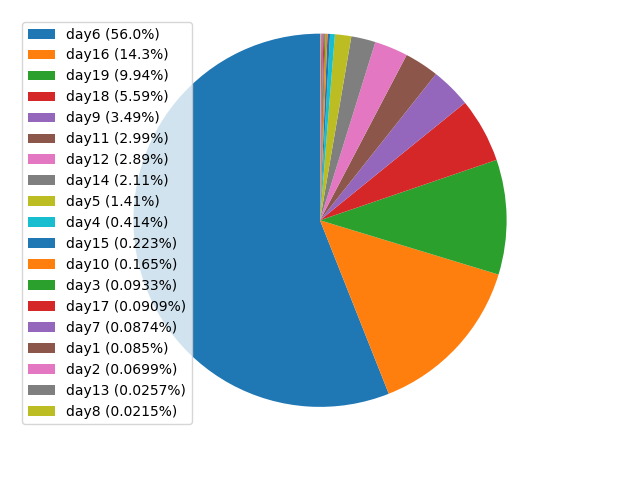
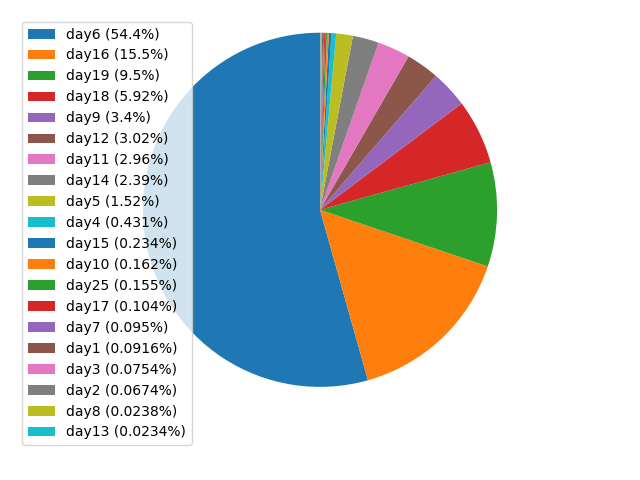
day 25 part 1

diff --git a/aoc/days/day25.py b/aoc/days/day25.py
@@ -1,0 +1,66 @@
+from pathlib import Path
+from itertools import groupby
+from aoc.util import read, file, bench, env
+
+CURR_DAY: int = 25
+INPUT_FILE_PATH: Path = file.input_path(CURR_DAY)
+TEST_FILE_PATH: Path = file.test_path(CURR_DAY)
+ONLY_TESTS: bool = env.is_set("TEST")
+
+
+def task2(input: list[str]):
+    # not enough stars :(
+    pass
+
+
+def pin_height(scheme: list[str]) -> list[int]:
+    heights: list[int] = [-1] * len(scheme[0])
+    for s in scheme:
+        for i in range(len(scheme[0])):
+            heights[i] += s[i] == "#"
+    return heights
+
+
+def fits(key: list[int], lock: list[int]) -> bool:
+    for i, k in enumerate(key):
+        if k + lock[i] >= 6:
+            return False
+    return True
+
+
+def task1(input: list[str]) -> int:
+    # split list at empty strings
+    schematics: list[list[str]] = [
+        list(sub) for ele, sub in groupby(input, key=bool) if ele
+    ]
+
+    lock_scheme: list[list[str]] = []
+    key_scheme: list[list[str]] = []
+
+    for schema in schematics:
+        if all(c == "." for c in schema[0]):
+            key_scheme.append(schema)
+        else:
+            lock_scheme.append(schema)
+
+    locks: list[list[int]] = [pin_height(lock) for lock in lock_scheme]
+    keys: list[list[int]] = [pin_height(lock) for lock in key_scheme]
+
+    return sum(sum(1 for lock in locks if fits(key, lock)) for key in keys)
+
+
+@bench.timer
+def day25() -> None:
+    test: list[str] = read.to_str_list(TEST_FILE_PATH)
+    input: list[str] = read.to_str_list(INPUT_FILE_PATH)
+
+    print("test1:", task1(test))
+    print("test2:", task2(test))
+
+    if not ONLY_TESTS:
+        print("task1:", task1(input))
+        print("task2:", task2(input))
+
+
+if __name__ == "__main__":
+    day25()

diff --git a/README.md b/README.md
@@ -1,6 +1,6 @@
 # Advent of Code 2024
 
-![](https://img.shields.io/badge/stars%20⭐-38-yellow)
+![](https://img.shields.io/badge/stars%20⭐-39-yellow)
 ![](https://img.shields.io/badge/days%20completed-19-red)
 
 This Repository contains some solutions for advent of code 2024 as well as a CLI to make some things easier.  
